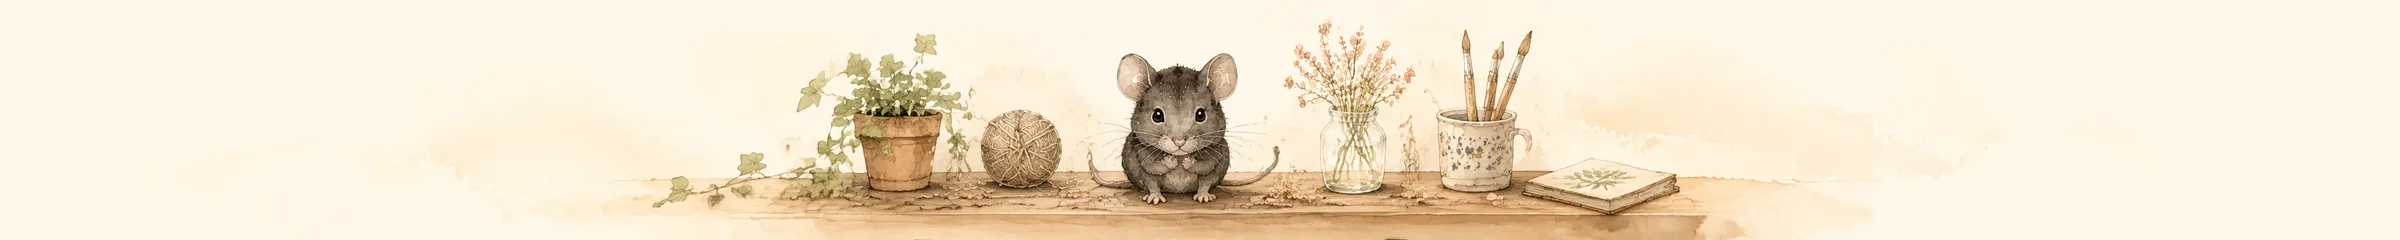
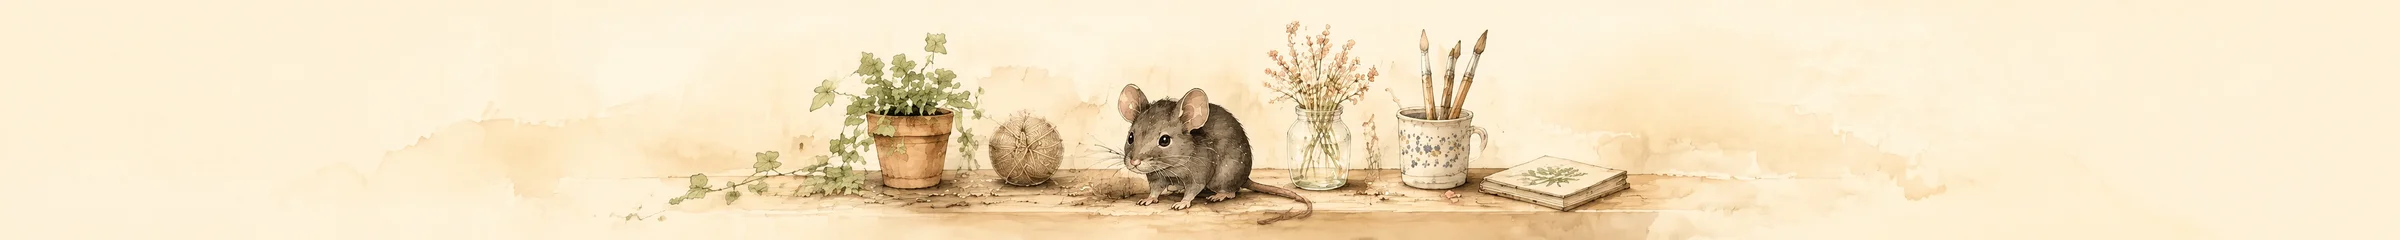
darker warm base bg (#E8D7B4); footer drop shadow mirrored under the hero images; updated Peppercorn footer art

diff --git a/frontend/src/components/HeroSection.css b/frontend/src/components/HeroSection.css
@@ -5,6 +5,11 @@
   min-height: 340px;
   overflow: hidden;
   flex-shrink: 0;
+  /* Same drop shadow as the footer, mirrored downward, so the hero lifts off the
+     content below it. z-index lets it cast over the nav's top edge (the hero and
+     nav never overlap during scroll, so this doesn't break the scroll-under). */
+  z-index: 41;
+  box-shadow: 0 5px 14px rgba(80, 55, 30, 0.12);
 }
 
 .hero picture {

diff --git a/frontend/src/index.css b/frontend/src/index.css
@@ -1,6 +1,6 @@
 :root {
   --paper:      #FFFAF3;
-  --parchment:  #F2E2C4;  /* warmed toward the hero's cream (split #EDE5D2 / #F6E0B6), less green/sickly */
+  --parchment:  #E8D7B4;  /* warm cream from the hero, a little deeper (less green/sickly) */
   --ink:        #3d2b20;
   --ink-medium: #5d4b3b;
   --ink-muted:  #8a7563;

diff --git a/frontend/src/components/SaffronPage.css b/frontend/src/components/SaffronPage.css
@@ -12,6 +12,9 @@
   min-height: 340px;
   overflow: hidden;
   flex-shrink: 0;
+  /* Same drop shadow as the footer, mirrored downward (matches the Mochi hero). */
+  z-index: 41;
+  box-shadow: 0 5px 14px rgba(80, 55, 30, 0.12);
 }
 
 .saffron-hero-img {
